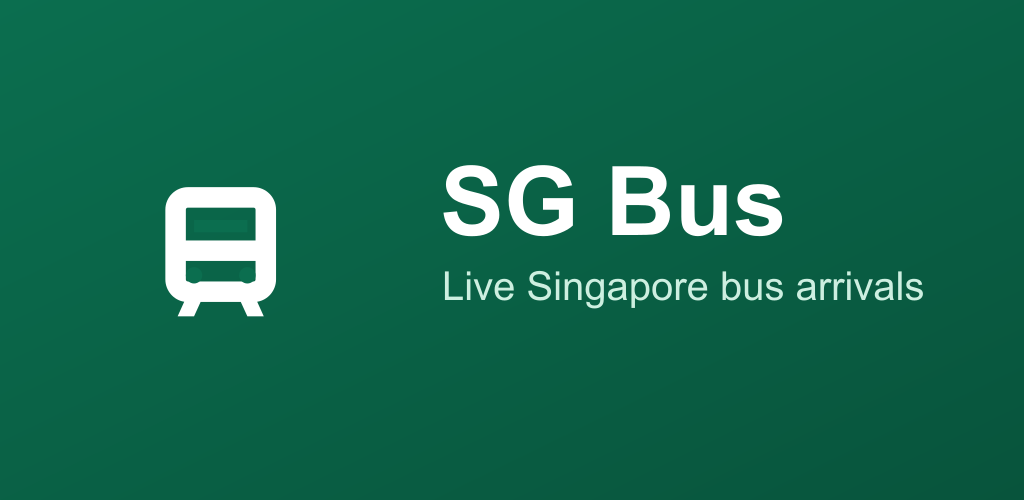
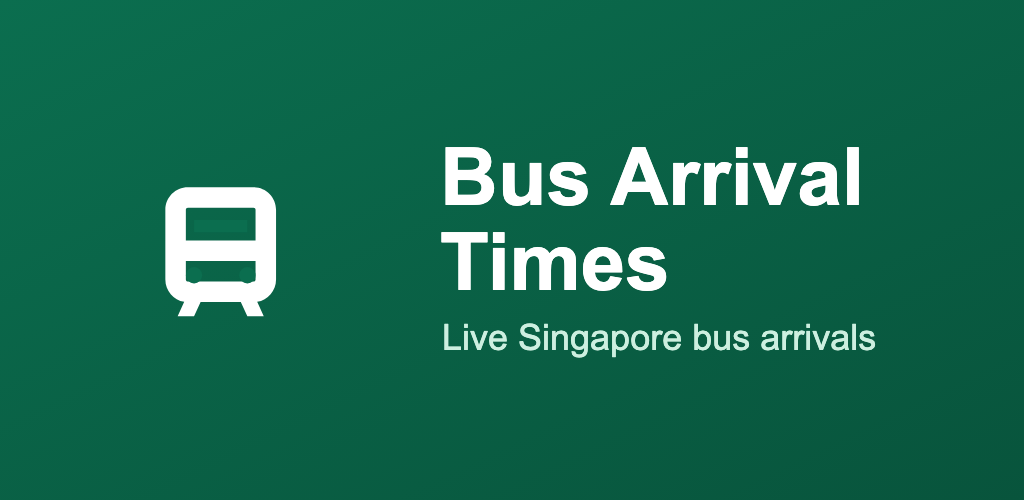
release: Bus Arrival Times 1.1 (versionCode 2) for the corporate Play listing
- Rename the app from "SG Bus" to "Bus Arrival Times" (launcher label, top bar,
  feature graphic, screenshots) to avoid an official-looking title.
- Credit the data source in-app: "Bus arrival data: LTA DataMall" linking to
  datamall.lta.gov.sg, under the arrivals list and in a new About dialog.
- Add an independence notice (not affiliated with LTA, SBS Transit, SMRT,
  Tower Transit or Go-Ahead).
- Explain the empty state when no buses are expected (e.g. overnight).
- Switch applicationId to com.tertiaryinfotech.sgbusapp and enable R8 with
  kotlinx.serialization keep rules.
- Add CHANGELOG.md and play-listing.txt.

Changed region(s): [[0.4062, 0.27, 0.9062, 0.63], [0.4062, 0.63, 0.875, 0.72]]

diff --git a/app/src/main/java/com/alfredang/sgbus/MainActivity.kt b/app/src/main/java/com/alfredang/sgbus/MainActivity.kt
@@ -21,10 +21,15 @@ import androidx.compose.foundation.layout.width
 import androidx.compose.foundation.lazy.LazyColumn
 import androidx.compose.foundation.lazy.items
 import androidx.compose.foundation.shape.RoundedCornerShape
+import androidx.compose.material.icons.Icons
+import androidx.compose.material.icons.outlined.Info
+import androidx.compose.material3.AlertDialog
 import androidx.compose.material3.Button
 import androidx.compose.material3.CircularProgressIndicator
 import androidx.compose.material3.ExperimentalMaterial3Api
 import androidx.compose.material3.HorizontalDivider
+import androidx.compose.material3.Icon
+import androidx.compose.material3.IconButton
 import androidx.compose.material3.MaterialTheme
 import androidx.compose.material3.OutlinedTextField
 import androidx.compose.material3.Scaffold
@@ -36,11 +41,22 @@ import androidx.compose.material3.lightColorScheme
 import androidx.compose.runtime.Composable
 import androidx.compose.runtime.collectAsState
 import androidx.compose.runtime.getValue
+import androidx.compose.runtime.mutableStateOf
+import androidx.compose.runtime.saveable.rememberSaveable
+import androidx.compose.runtime.setValue
 import androidx.compose.ui.Alignment
 import androidx.compose.ui.Modifier
 import androidx.compose.ui.graphics.Color
+import androidx.compose.ui.platform.LocalUriHandler
+import androidx.compose.ui.res.stringResource
+import androidx.compose.ui.text.LinkAnnotation
+import androidx.compose.ui.text.SpanStyle
+import androidx.compose.ui.text.TextLinkStyles
+import androidx.compose.ui.text.buildAnnotatedString
 import androidx.compose.ui.text.font.FontWeight
+import androidx.compose.ui.text.style.TextDecoration
 import androidx.compose.ui.text.style.TextOverflow
+import androidx.compose.ui.text.withLink
 import androidx.compose.ui.unit.dp
 import androidx.lifecycle.viewmodel.compose.viewModel
 
@@ -72,10 +88,22 @@ private fun SGBusTheme(content: @Composable () -> Unit) {
 @OptIn(ExperimentalMaterial3Api::class)
 private fun SGBusApp(viewModel: BusArrivalsViewModel = viewModel()) {
     val state by viewModel.uiState.collectAsState()
+    var showAbout by rememberSaveable { mutableStateOf(false) }
+
+    if (showAbout) {
+        AboutDialog(onDismiss = { showAbout = false })
+    }
 
     Scaffold(
         topBar = {
-            TopAppBar(title = { Text("SG Bus") })
+            TopAppBar(
+                title = { Text(stringResource(R.string.app_name)) },
+                actions = {
+                    IconButton(onClick = { showAbout = true }) {
+                        Icon(Icons.Outlined.Info, contentDescription = "About")
+                    }
+                },
+            )
         },
     ) { paddingValues ->
         LazyColumn(
@@ -123,8 +151,76 @@ private fun SGBusApp(viewModel: BusArrivalsViewModel = viewModel()) {
             items(state.services, key = { it.serviceNo }) { service ->
                 ServiceArrivalRow(service = service)
             }
+
+            item {
+                DataAttribution(
+                    modifier = Modifier.padding(start = 16.dp, top = 24.dp, end = 16.dp, bottom = 24.dp),
+                )
+            }
         }
     }
+}
+
+private const val DATAMALL_URL = "https://datamall.lta.gov.sg"
+private const val INDEPENDENCE_DISCLAIMER =
+    "Independent app. Not affiliated with, endorsed by, or operated by LTA, SBS Transit, SMRT, " +
+        "Tower Transit or Go-Ahead."
+
+/** Data-source credit and independence notice, shown under the arrivals and in About. */
+@Composable
+private fun DataAttribution(modifier: Modifier = Modifier) {
+    val uriHandler = LocalUriHandler.current
+    Column(modifier = modifier, verticalArrangement = Arrangement.spacedBy(6.dp)) {
+        Text(
+            text = buildAnnotatedString {
+                append("Bus arrival data: ")
+                withLink(
+                    LinkAnnotation.Url(
+                        url = DATAMALL_URL,
+                        styles = TextLinkStyles(
+                            SpanStyle(
+                                color = MaterialTheme.colorScheme.primary,
+                                textDecoration = TextDecoration.Underline,
+                            ),
+                        ),
+                        linkInteractionListener = { uriHandler.openUri(DATAMALL_URL) },
+                    ),
+                ) {
+                    append("LTA DataMall")
+                }
+            },
+            style = MaterialTheme.typography.bodySmall,
+        )
+        Text(
+            text = INDEPENDENCE_DISCLAIMER,
+            style = MaterialTheme.typography.bodySmall,
+            color = MaterialTheme.colorScheme.onSurfaceVariant,
+        )
+    }
+}
+
+@Composable
+private fun AboutDialog(onDismiss: () -> Unit) {
+    AlertDialog(
+        onDismissRequest = onDismiss,
+        title = { Text(stringResource(R.string.app_name)) },
+        text = {
+            Column(verticalArrangement = Arrangement.spacedBy(12.dp)) {
+                Text("Version ${BuildConfig.VERSION_NAME}", style = MaterialTheme.typography.bodySmall)
+                Text("Check live arrival times for Singapore bus stops.")
+                DataAttribution()
+                Text(
+                    "Arrival times are estimates and may differ from actual bus arrivals.",
+                    style = MaterialTheme.typography.bodySmall,
+                    color = MaterialTheme.colorScheme.onSurfaceVariant,
+                )
+                Text("Developer: Tertiary Infotech Academy Pte Ltd", style = MaterialTheme.typography.bodySmall)
+            }
+        },
+        confirmButton = {
+            TextButton(onClick = onDismiss) { Text("Close") }
+        },
+    )
 }
 
 @Composable
@@ -201,7 +297,10 @@ private fun ArrivalStatus(state: BusArrivalsUiState) {
             }
         }
         state.errorMessage != null -> EmptyMessage(state.errorMessage)
-        state.services.isEmpty() -> EmptyMessage("No arrivals listed")
+        state.services.isEmpty() -> EmptyMessage(
+            "No buses are expected at this stop right now. Most services run from about " +
+                "5:30am to midnight — tap Refresh arrivals to check again.",
+        )
     }
 }
 

diff --git a/CHANGELOG.md b/CHANGELOG.md
@@ -1,0 +1,13 @@
+# Changelog
+
+## 1.1 (versionCode 2) — 2026-11-04
+
+- Renamed the app to **Bus Arrival Times**.
+- Added data-source credit ("Bus arrival data: LTA DataMall", linking to datamall.lta.gov.sg) under the arrivals list and in a new About screen.
+- Added an independence notice: not affiliated with, endorsed by, or operated by LTA, SBS Transit, SMRT, Tower Transit or Go-Ahead.
+- Clearer message when no buses are expected at a stop (e.g. overnight).
+- Release builds are now minified with R8.
+
+## 1.0 (versionCode 1)
+
+- Live bus arrivals for popular Singapore bus stops.

diff --git a/README.md b/README.md
@@ -1,6 +1,6 @@
-# SG Bus Android
+# Bus Arrival Times (Android)
 
-Native Android version of SG Bus, mirroring the SwiftUI app at `alfredang/sgbusapp`.
+Native Android version of Bus Arrival Times (formerly SG Bus), mirroring the SwiftUI app at `alfredang/sgbusapp`.
 
 ## Features
 
